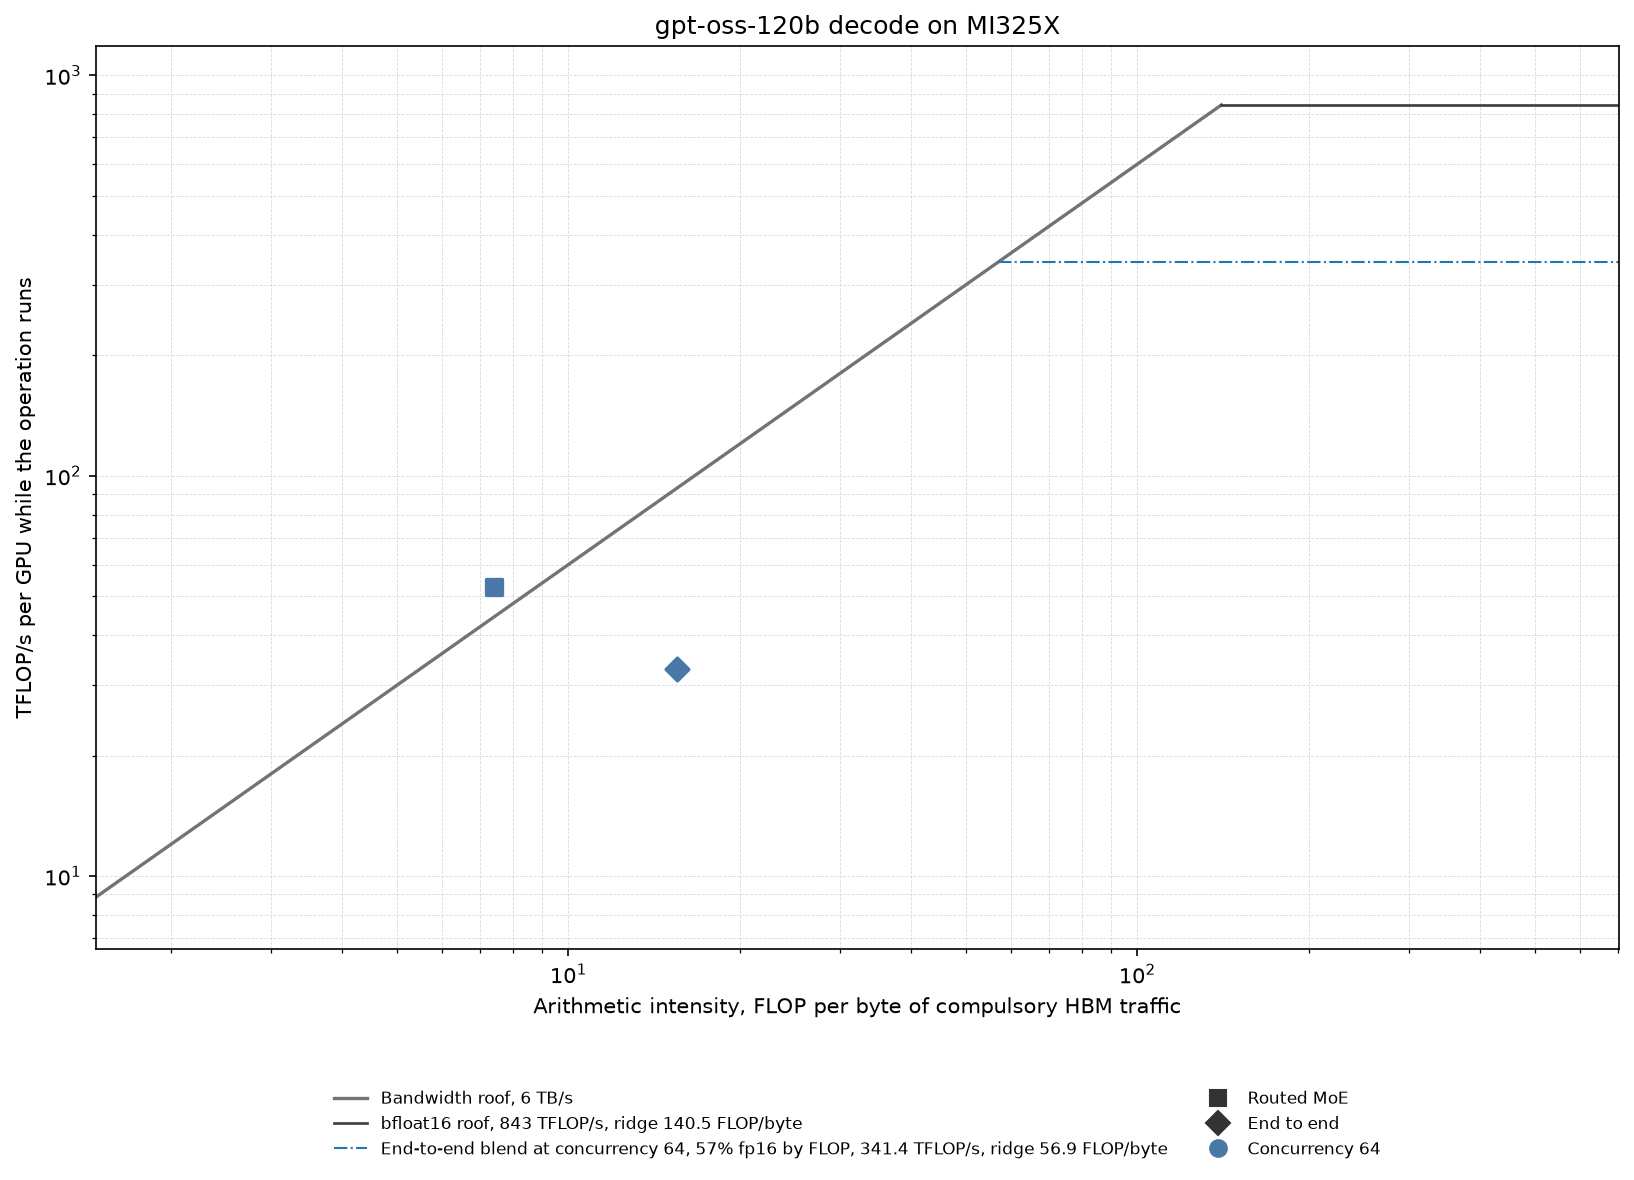
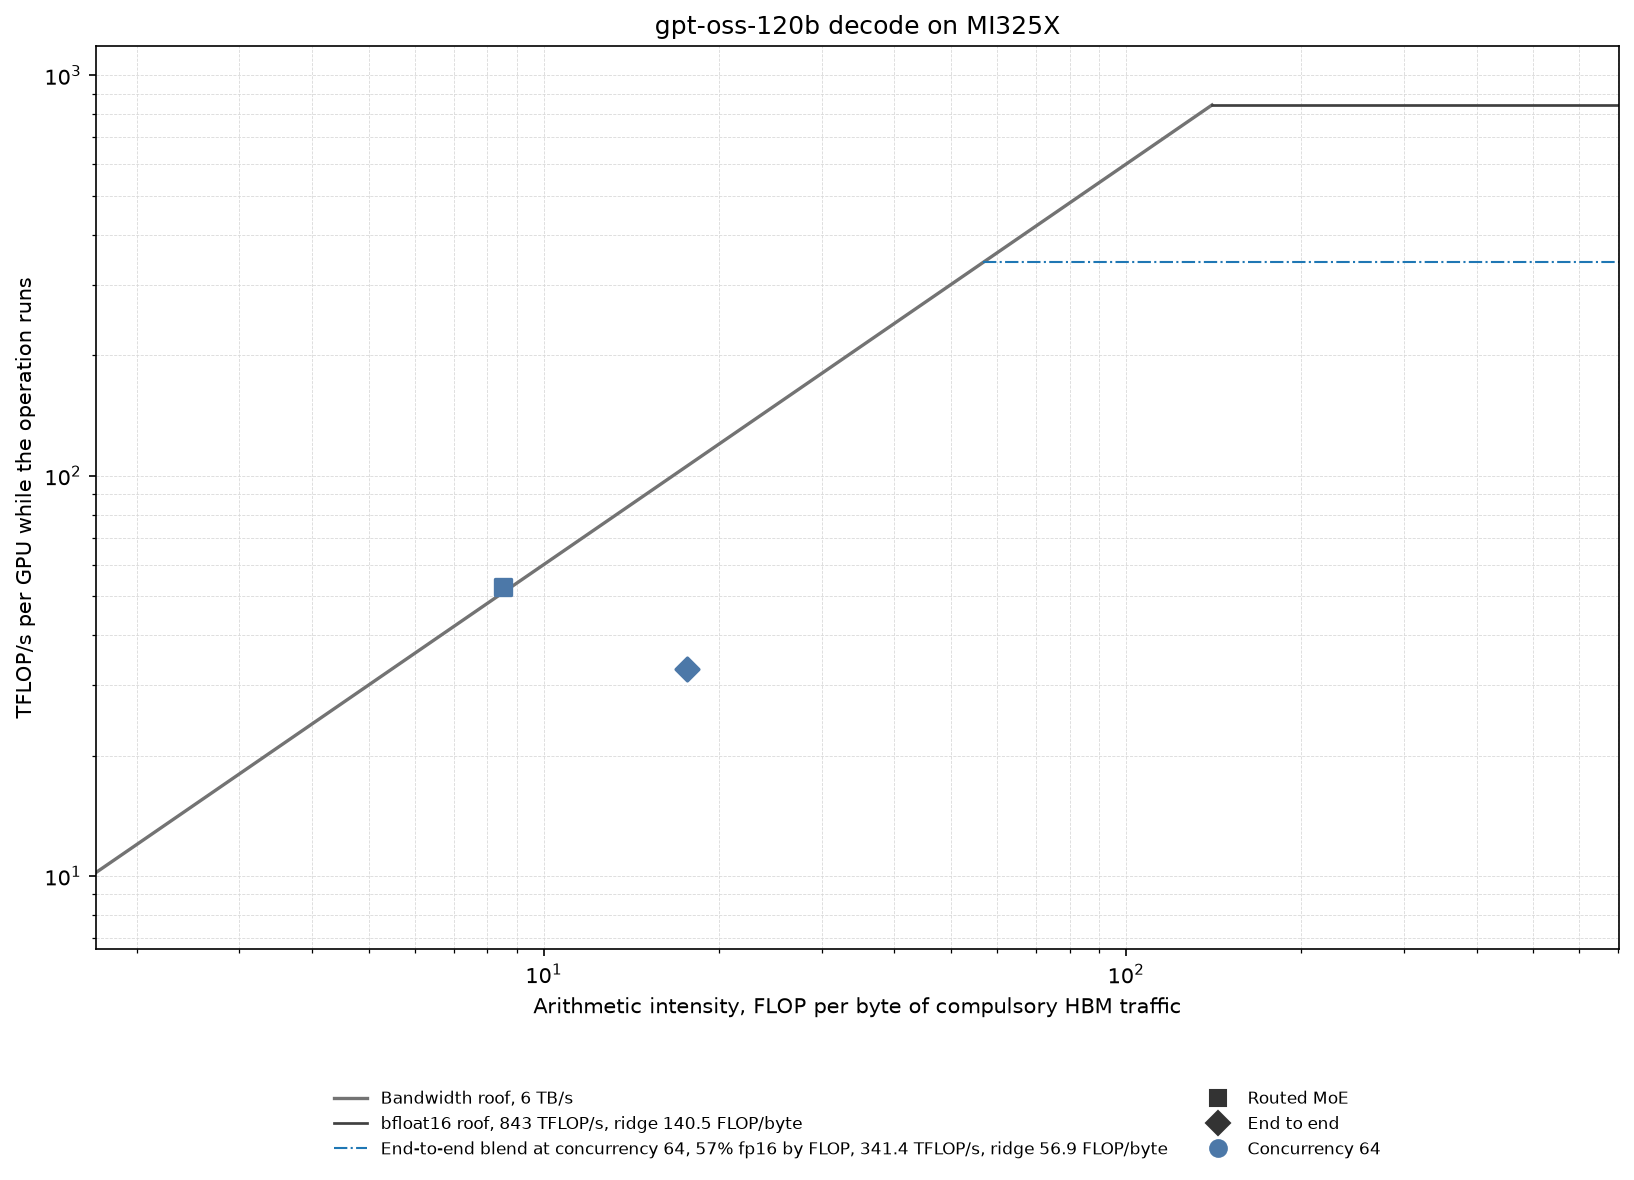
fix(roofline): cost MoE weights by expected distinct experts
Routed rows spread over experts at random, so a decode step touches
E*(1-(1-1/E)^rows) experts, not all of them. Regenerate the gpt-oss MI325X
figure.

diff --git a/TraceLens/Visualizer/model_explorer_export/roofline_projection.py b/TraceLens/Visualizer/model_explorer_export/roofline_projection.py
@@ -71,9 +71,10 @@ Known approximations, stated once here rather than scattered in comments:
     ``num_experts`` passes -- the router picks a subset per token, so costing
     every expert for every token would overstate FLOPs by
     ``num_experts / experts_per_tok``. The expert GEMMs use :class:`GroupedGemm`
-    over ``G = min(num_experts, active_tokens)`` distinct weight matrices, so the
-    weight-byte term reflects the experts actually streamed (``G`` falls back to
-    1, the prior single-weight cost, when ``num_experts`` is unknown). Tensor
+    over ``G`` distinct weight matrices, the experts the routed rows are expected
+    to reach (``num_experts * (1 - (1 - 1/num_experts) ** active_tokens)``), so
+    the weight-byte term reflects the experts actually streamed (``G`` falls back
+    to 1, the prior single-weight cost, when ``num_experts`` is unknown). Tensor
     parallel column-shards each expert's intermediate width; expert parallel
     gives one GPU ``1/EP`` of the routed rows and adds the dispatch/combine
     all-to-all as FLOPs-free data movement (:class:`MoEComm`). The router's
@@ -3305,6 +3306,20 @@ def _mtp_stack_ops(
     return ops
 
 
+def _experts_touched(experts: int, routed_rows: int) -> float:
+    """Expected distinct experts that ``routed_rows`` rows reach.
+
+    A row picks an expert uniformly, so an expert is missed with probability
+    ``(1 - 1/experts) ** routed_rows``. A few rows reach about one expert each;
+    many rows reach them all. Charging every expert whenever ``routed_rows``
+    exceeds the expert count would read weights no row selected: 256 rows over
+    128 experts reach about 111, not 128.
+    """
+    if experts <= 0 or routed_rows <= 0:
+        return 0.0
+    return experts * (1.0 - (1.0 - 1.0 / experts) ** routed_rows)
+
+
 def _moe_cost(
     dims: dict[str, Any],
     top_k: int | None,
@@ -3321,9 +3336,9 @@ def _moe_cost(
     declared, which is the wrong width for the routed experts this costs.
 
     The expert GEMMs are costed with :class:`GroupedGemm` over
-    ``G = min(num_experts, active_tokens)`` distinct expert weight matrices --
-    the weights actually streamed from HBM for this token count -- rather than a
-    single shared weight. FLOPs are unchanged (only the selected token-expert
+    ``G`` distinct expert weight matrices -- the experts ``active_tokens`` routed
+    rows are expected to reach under uniform routing, see
+    :func:`_experts_touched` -- rather than a single shared weight. FLOPs are unchanged (only the selected token-expert
     pairs compute); the weight-byte term now scales with the experts touched, so
     the memory-bound/compute-bound crossover tracks the real prefill-vs-decode
     behaviour instead of understating decode weight traffic by ~``G``x. When
@@ -3349,7 +3364,7 @@ def _moe_cost(
     intermediate_size = _shard(intermediate_size, _RT.tp)
     active_tokens = _shard(tokens * top_k, _RT.ep)
     experts_here = _shard(_RT.moe_num_experts, _RT.ep) if _RT.moe_num_experts else 0
-    groups = min(experts_here, active_tokens) if experts_here else 1
+    groups = _experts_touched(experts_here, active_tokens) if experts_here else 1
     wbpe = _RT.weight_bpe if _RT.weight_bpe is not None else bpe
     # gate_up_proj: [active_tokens, hidden] x per-expert [hidden, 2*intermediate].
     gate_up_flops = GroupedGemm.flops_func(active_tokens, hidden, 2 * intermediate_size)

diff --git a/tests/Visualizer/test_roofline_projection.py b/tests/Visualizer/test_roofline_projection.py
@@ -43,6 +43,7 @@ from TraceLens.Visualizer.model_explorer_export.roofline_projection import (
     _engine_head_cost,
     _introspect_weight_bpe,
     _finish_op,
+    _experts_touched,
     _formula_quant_rows,
     _graph_contains_draft,
     _mla_attention_ops,
@@ -630,6 +631,19 @@ def test_moe_cost_grouped_gemm_scales_weight_bytes_by_experts_touched():
     assert flops_g == flops_g1
     # Reading G=20 expert weight matrices moves far more than a single one.
     assert bytes_g > bytes_g1
+
+
+def test_experts_touched_is_the_expected_distinct_experts():
+    # 256 routed rows over 128 experts leave 128 * (127/128) ** 256 unselected.
+    assert _experts_touched(128, 256) == pytest.approx(110.9, abs=0.1)
+    # A few rows reach about one expert each; many rows reach them all.
+    assert _experts_touched(256, 1) == pytest.approx(1.0)
+    assert _experts_touched(256, 20) == pytest.approx(19.25, abs=0.05)
+    assert _experts_touched(128, 1_000_000) == pytest.approx(128.0)
+    assert _experts_touched(128, 0) == 0.0
+    # Never more than the rows or the experts there are.
+    for experts, rows in ((128, 256), (8, 100), (64, 10)):
+        assert _experts_touched(experts, rows) <= min(experts, rows)
 
 
 def test_moe_cost_adds_dispatch_combine_allreduce_only_when_ep():

diff --git a/docs/how-to/generate-model-roofline-projection.md b/docs/how-to/generate-model-roofline-projection.md
@@ -197,8 +197,10 @@ peak. Attention stays at the activation dtype.
 
 MoE routing is `experts_per_tok` grouped-GEMM passes per token (the gate-up and
 down projections of the selected experts), never one pass per expert. The
-weight traffic uses `G = min(experts on this GPU, active tokens on this GPU)`
-distinct expert matrices. Tensor parallel column-shards each expert's
+weight traffic uses `G` distinct expert matrices: the experts the routed rows
+reach on this GPU, `E * (1 - (1 - 1/E) ** rows)` for `E` local experts. A few
+rows reach about one expert each and many rows reach them all, so 256 rows over
+128 experts read about 111 expert matrices, not 128. Tensor parallel column-shards each expert's
 intermediate width. Expert parallel gives one GPU the floor of the routed rows
 and adds the dispatch and combine all-to-all as data movement. The router GEMM,
 its softmax, the combine, and a shared expert are separate rows when the graph
